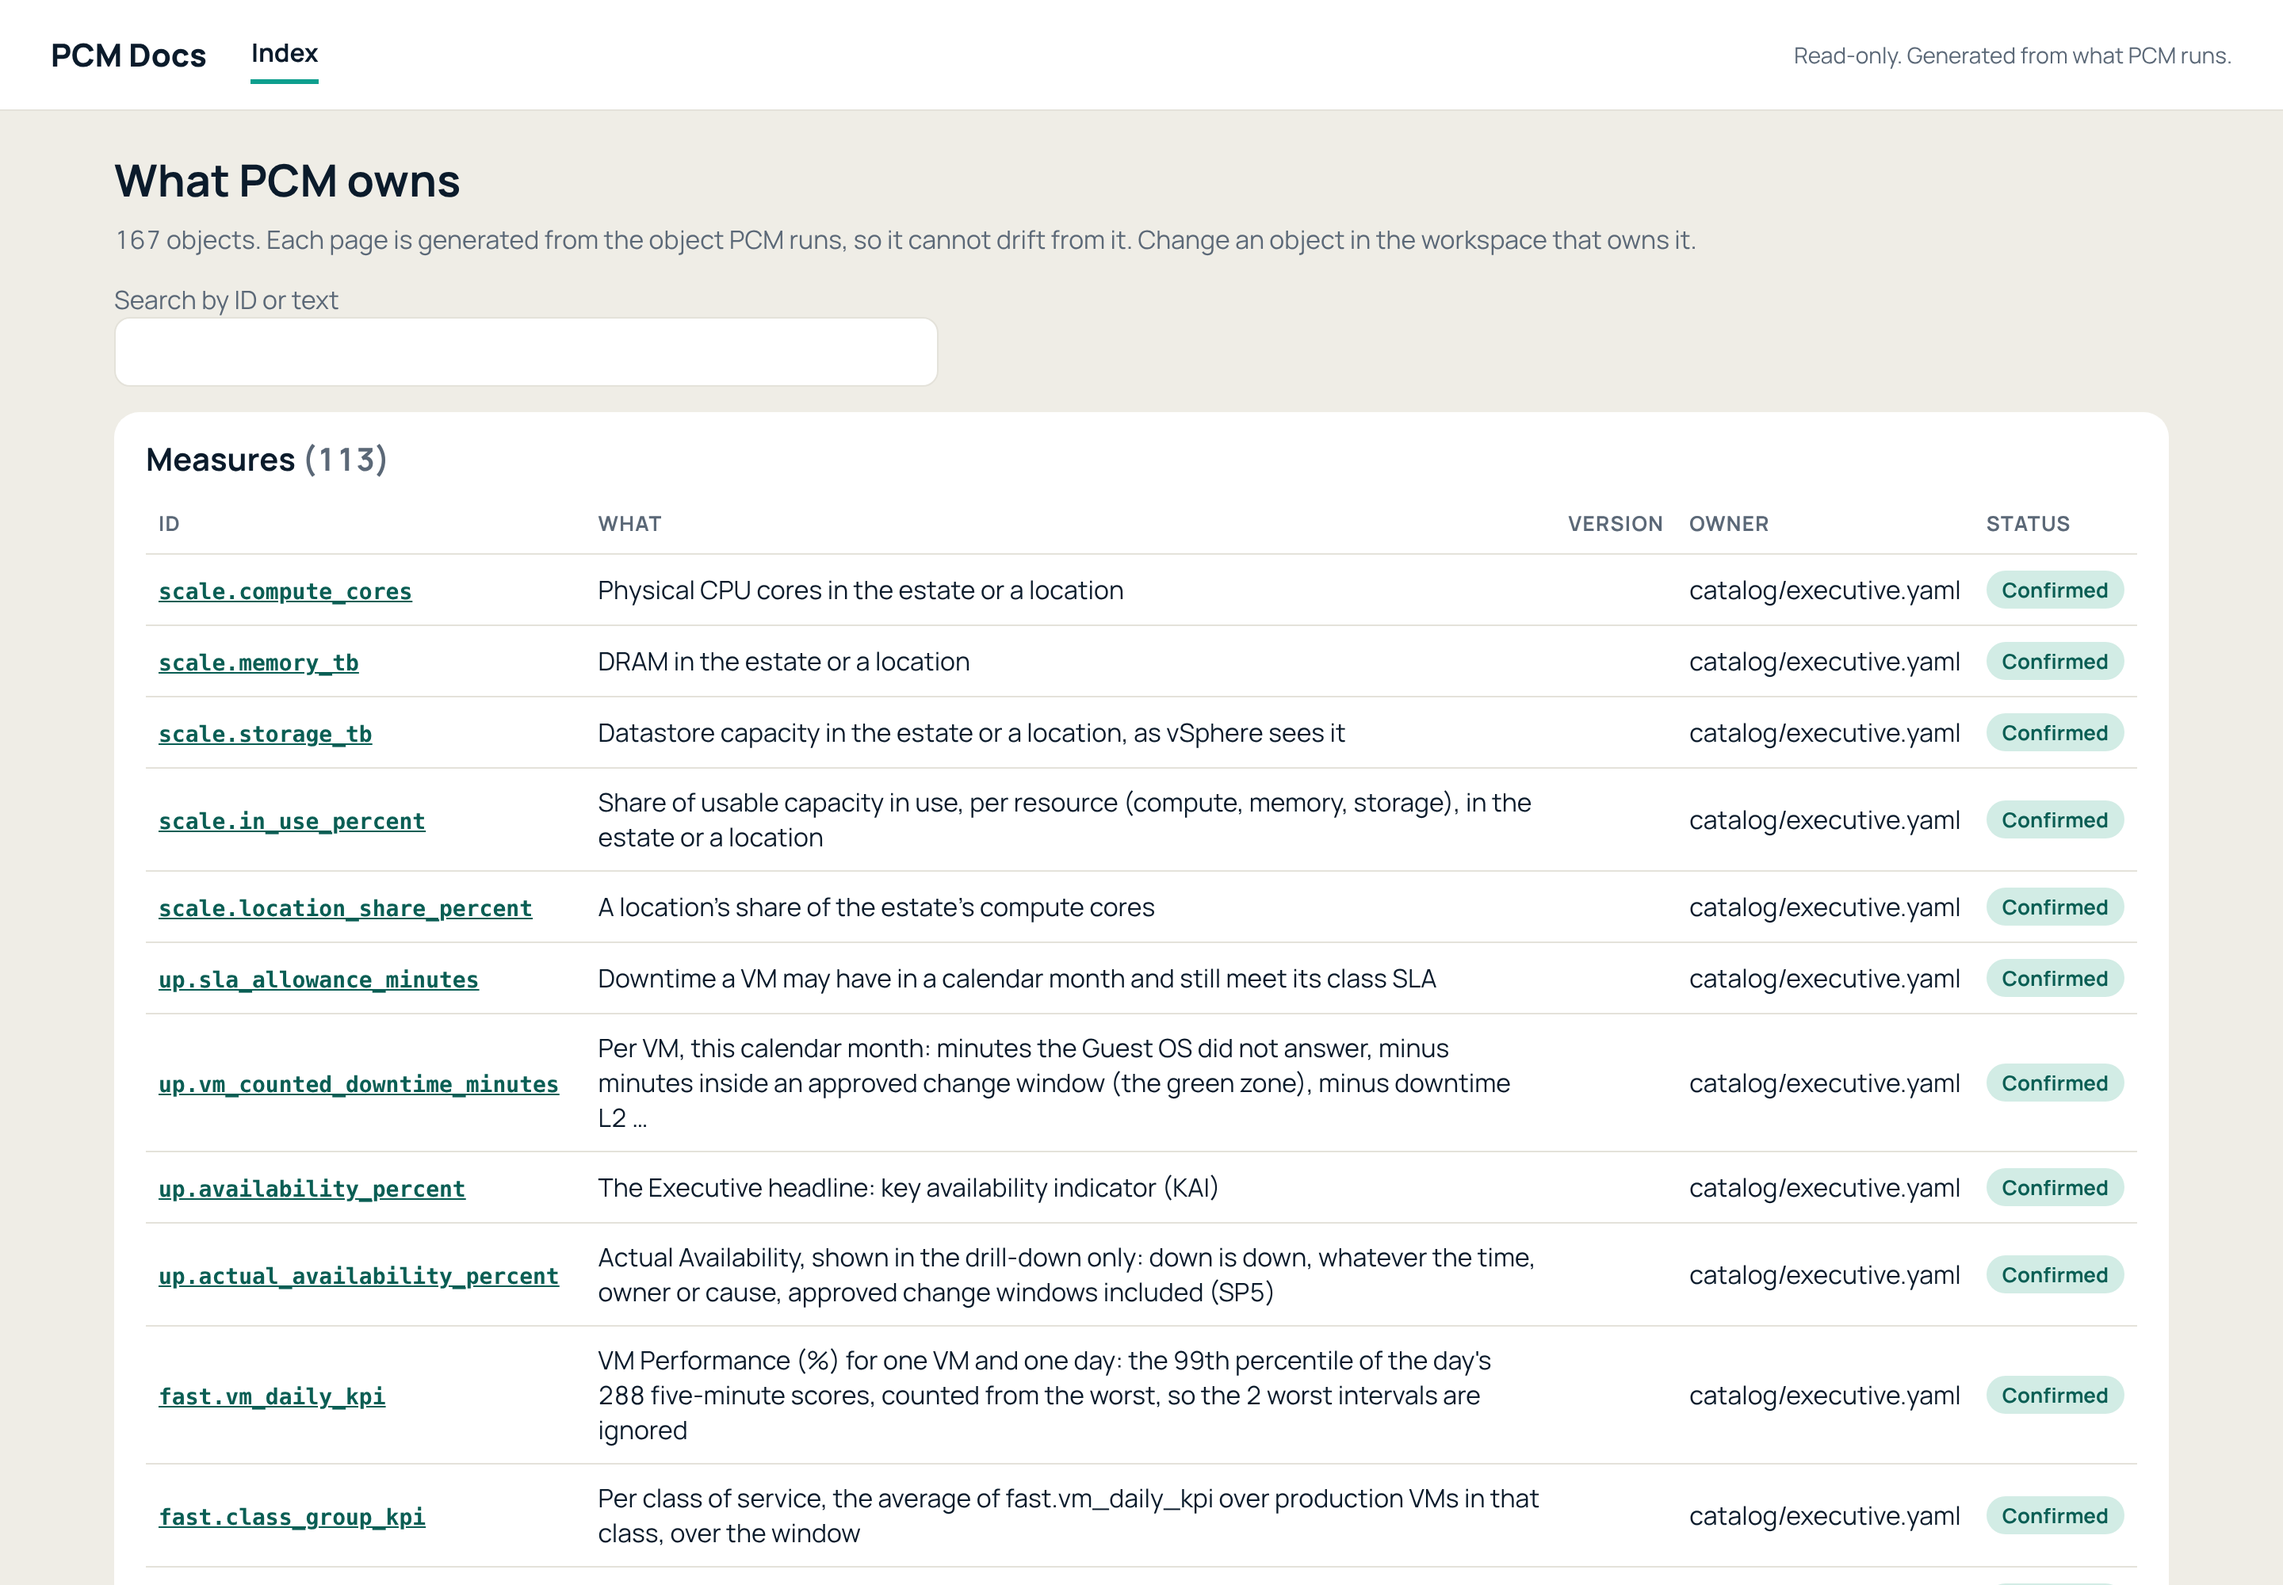
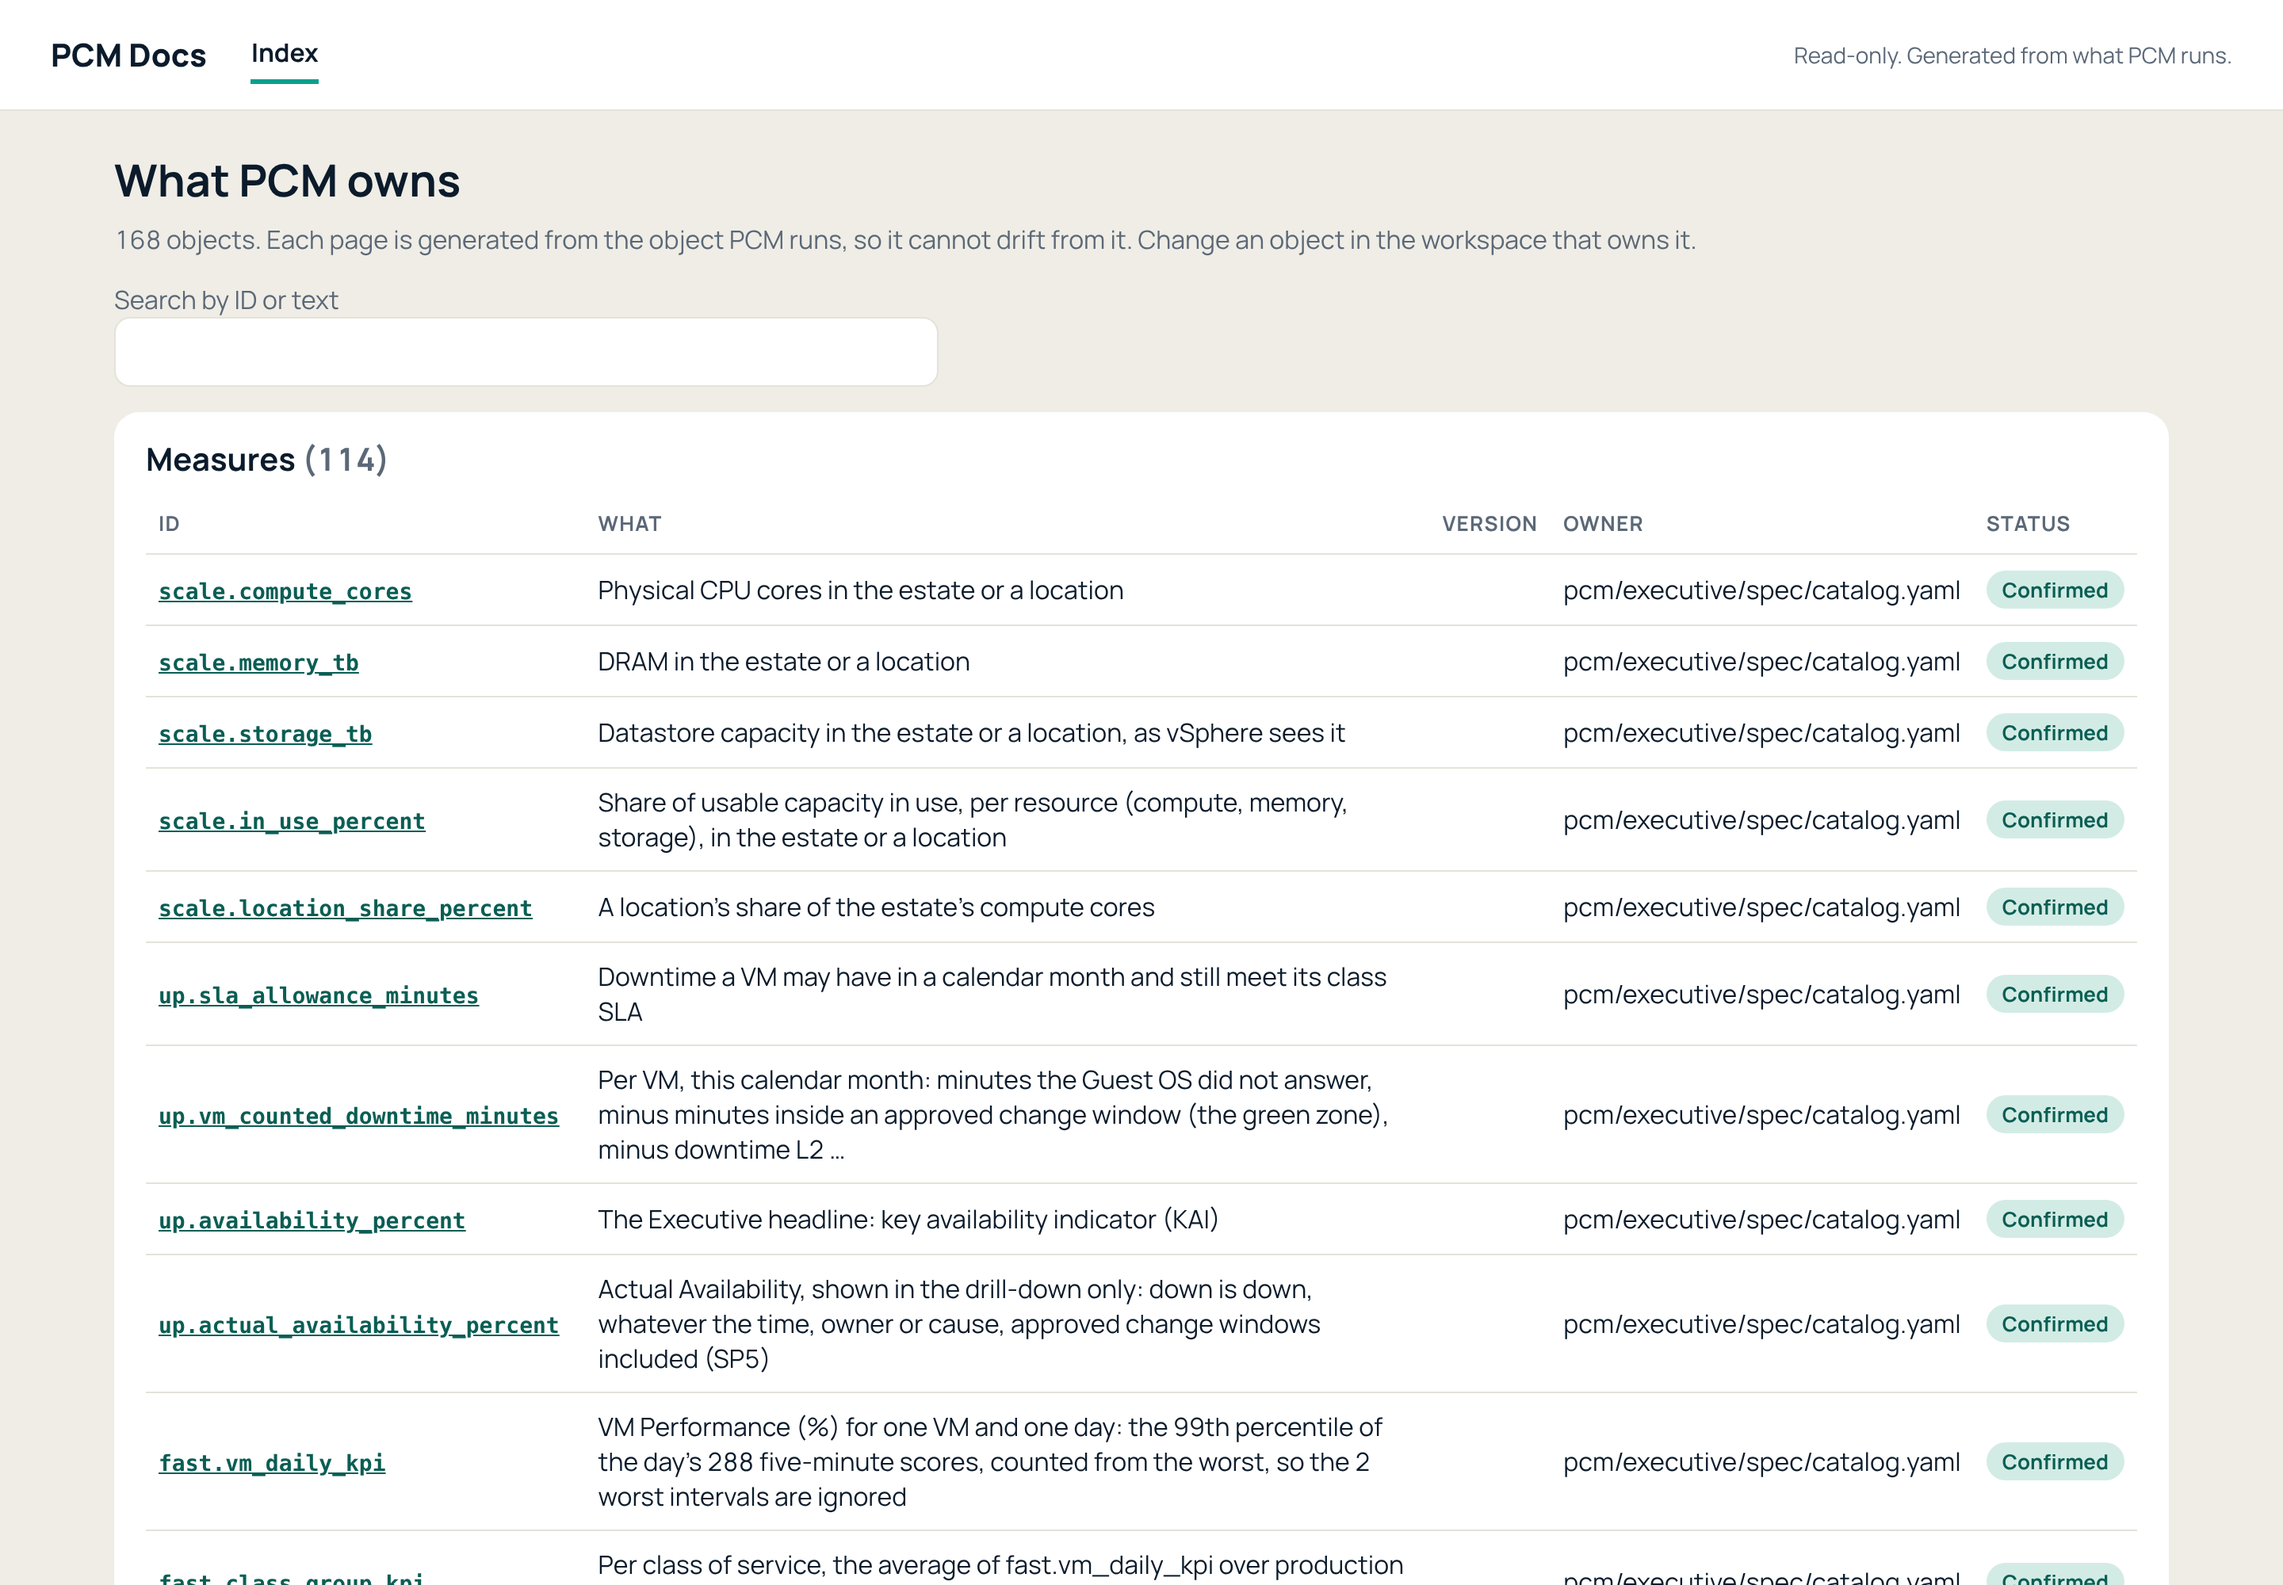
Documents agree with the spec: PCM's two demos, one broken link
The README said PCM reads VCF Operations; today it shows the synthetic
ACME estate, and the live demo that reads the lab is built in M8
(SCOPE-4, SCOPE-5). It now also links the test plan. decisions.md linked
the workspace's retired DECISIONS.md. CLAUDE-PROJECT.md cited DESIGN-23
twice. The test plan's tables are shorter.

Claude-Session: https://claude.ai/code/session_01JZFwAnhTPfYu2xFTHiaHFb

diff --git a/spec/test-plan.md b/spec/test-plan.md
@@ -11,7 +11,7 @@ The model is the VCF vCommunity Adapter's [Live Validation Test Plan](https://gi
 | Unit tests | `python3 -m unittest pcm.<workspace>.tests.test_<name> -v`, from the repository root ([pcm/README.md](../pcm/README.md), section Test) | Each workspace's code, the live reader and its figures, with the fake Suite API | Anywhere, before each commit |
 | Page tests | `node pcm/<workspace>/tests/<workspace>.page.test.mjs` | Each page's parts, states and links, in Chromium | Anywhere, before each commit |
 | Synthetic rehearsal | `node demo/rehearse.mjs` ([demo/README.md](../demo/README.md)) | The synthetic demo script, step by step, with a screenshot per step | Anywhere, before every demo |
-| Lab tests | `pwsh tools/lab/Test-Live.ps1` (R-LIVE-031, to write) | The live demo on the lab VM against the lab VCF Operations: every lab scenario of [live-demo.md](requirements/live-demo.md), then the live demo script end to end (R-LIVE-036) | The author's laptop on the VPN, from M8 |
+| Lab tests | `pwsh tools/lab/Test-Live.ps1` (R-LIVE-031, to write) | Every lab scenario of [live-demo.md](requirements/live-demo.md), then the live demo end to end | The author's laptop on the VPN, from M8 |
 
 A lab test is written only for what a fake cannot prove: the real Suite API, the real adapter's keys, the lab's certificate and account rights, and the time a page takes. Everything else is tested with the fake Suite API (`pcm/l2/tests/fake_suite_api.py`, to write).
 
@@ -44,12 +44,12 @@ Design choices:
 
 | Step | What it checks | Scenarios | On failure |
 | :--- | :--- | :--- | :--- |
-| 1. Access | The VPN, VCF Operations sign-in, vCenter sign-in and the PCM pages on the lab VM answer ([Test-Lab.ps1](../tools/lab/Test-Lab.ps1)) | none of its own | Stop |
+| 1. Access | VPN, sign-ins and the lab VM's pages answer ([Test-Lab.ps1](../tools/lab/Test-Lab.ps1)) | none of its own | Stop |
 | 2. The adapter collects | The VCF vCommunity Adapter's [validate.ps1](https://github.com/e1-rahabok/PCM-Adapter/blob/main/tools/validate/validate.ps1) exits 0 | none of its own | Stop: the pack is not collecting, which is the adapter's fault |
 | 3. Sign-in and rights | The read-only account, the lab certificate, no refused call; the lab's VCF Operations version is printed | T-LIVE-007c, T-LIVE-008b, T-LIVE-009b, T-LIVE-031a | Stop |
 | 4. The key list | Every key PCM reads exists on the lab and is fresh | T-LIVE-023a, T-LIVE-023c | Stop: a missing key fails every figure after it |
 | 5. The live entry and the tree | `/live/l2` opens; the tree is VCF Operations' inventory | T-LIVE-001b, T-LIVE-012b | Go on |
-| 6. Figures against the oracle | Cluster Performance; every other KPI and part on a cluster, a host and a VM; the lines across clusters; the 7-day window; Capacity Remaining, Time Remaining and VM Remaining; the Periodic Cluster Check and its labels; the part names | T-LIVE-024a, T-LIVE-025a, T-LIVE-026a, T-LIVE-017b, T-LIVE-027b, T-LIVE-021b, T-LIVE-022b, T-LIVE-018b | Go on |
+| 6. Figures against the oracle | Every KPI, part, line, remaining value and check equals the oracle | T-LIVE-024a, T-LIVE-025a, T-LIVE-026a, T-LIVE-017b, T-LIVE-027b, T-LIVE-021b, T-LIVE-022b, T-LIVE-018b | Go on |
 | 7. Absent data | A powered-off VM shows "No data" | T-LIVE-015b | Go on |
 | 8. Page time | A cluster's Performance and Capacity tabs show within 5 seconds with an empty cache | T-LIVE-033b | Go on |
 | 9. Agent E2 | "Why the worst?" names the oracle's part | T-LIVE-030a | Go on |

diff --git a/README.md b/README.md
@@ -1,11 +1,11 @@
 # PCM, Private Cloud Manager
 
-A web application for the operations roles of a private cloud on VMware Cloud Foundation: CIO, NOC, L2 platform engineer, capacity planner and auditor. Each role has its own workspace with its own URL (D-011, D-012). PCM reads VCF Operations and asks [Agent E2](https://github.com/e1-rahabok/agent-e2) to explain what it shows.
+A web application for the operations roles of a private cloud on VMware Cloud Foundation: CIO, NOC, L2 platform engineer, capacity planner and auditor. Each role has its own workspace with its own URL (D-011, D-012). PCM shows a synthetic estate, ACME, and asks [Agent E2](https://github.com/e1-rahabok/agent-e2) to explain what it shows. A second demo, the live L2 workspace, reads the lab's VCF Operations; it is built in the workspace's milestone M8 (SCOPE-4 and SCOPE-5 in the workspace's [brief](https://github.com/e1-rahabok/private-cloud-workspace/blob/main/spec/brief.md)).
 
 ## Files
 
 - [`pcm/`](pcm): the application, one folder per workspace ([`executive/`](pcm/executive), [`noc/`](pcm/noc), [`l2/`](pcm/l2), [`capacity/`](pcm/capacity), [`definitions/`](pcm/definitions) for the Docs workspace) and [`core/`](pcm/core) for the parts every workspace uses (D-133). Each folder holds a design note, the specification in `spec/`, and the code, pages and tests generated from them. AI generates all code from the specification (D-010); do not edit generated code by hand (D-070). How to run and test it: [pcm/README.md](pcm/README.md).
-- [`spec/`](spec): the specification's front page ([spec/README.md](spec/README.md)) and the requirements of PCM's work ([spec/requirements/](spec/requirements)).
+- [`spec/`](spec): the specification's front page ([spec/README.md](spec/README.md)), the requirements of PCM's work ([spec/requirements/](spec/requirements)) and the [test plan](spec/test-plan.md).
 - [decisions.md](decisions.md): the reasons behind the specification, with the design notes. Decision IDs are D-nnn.
 - [`author-papers/`](author-papers): the author's papers that PCM is designed from ([author-papers/README.md](author-papers/README.md)).
 - [`deploy/`](deploy): installing PCM and Agent E2 on a lab VM ([deploy/README.md](deploy/README.md)).

diff --git a/decisions.md b/decisions.md
@@ -952,7 +952,7 @@ Every decision, with a link to its block. The workspace's [tools/spec_check.py](
 ## D-134 Decision blocks and the style baseline
 
 - **Date:** 2026-11-28
-- **Decision:** This file holds one block per decision: a heading with the ID and a title, then the date, the decision and the reason, as the workspace's [DECISIONS.md](https://github.com/e1-rahabok/private-cloud-workspace/blob/main/DECISIONS.md) does. The index at the top lists every decision with a link to its block; the workspace's [tools/spec_check.py](https://github.com/e1-rahabok/private-cloud-workspace/blob/main/tools/spec_check.py) reads the decision IDs from its rows. The other files in [style-baseline.yaml](style-baseline.yaml), most of them design notes, keep their counts and are fixed when next edited.
+- **Decision:** This file holds one block per decision: a heading with the ID and a title, then the date, the decision and the reason. The index at the top lists every decision with a link to its block; the workspace's [tools/spec_check.py](https://github.com/e1-rahabok/private-cloud-workspace/blob/main/tools/spec_check.py) reads the decision IDs from its rows. The other files in [style-baseline.yaml](style-baseline.yaml), most of them design notes, keep their counts and are fixed when next edited.
 - **Reason:** The author's answer to Q-PCM-1, the style baseline of 249 problems (2026-11-28, "Agree"): option (b) for this file, whose table was read most and whose cells ran to over 100 words, and option (a) for the design notes, which change with each workspace.
 
 ## D-135 The folder name of the Docs workspace

diff --git a/CLAUDE-PROJECT.md b/CLAUDE-PROJECT.md
@@ -9,7 +9,7 @@ Rules, tools and paths of private-cloud-manager, the repository of PCM (Private 
 - Requirements of this repository: [`spec/requirements/`](spec/requirements) (DESIGN-4). Each requirement belongs to the workspace milestone that ROADMAP.md names.
 - Test plan of this repository: [spec/test-plan.md](spec/test-plan.md): test levels, the lab run order of `tools/lab/Test-Live.ps1`, and the reference script `tools/lab/live_reference.py`.
 - Decisions inside this repository: [decisions.md](decisions.md), IDs D-nnn. Add no new block to it: put a new outcome in a requirement or a design note, with its reason.
-- Questions inside this repository: [OPEN-QUESTIONS.md](OPEN-QUESTIONS.md), IDs Q-PCM-n (DESIGN-23, DESIGN-23).
+- Questions inside this repository: [OPEN-QUESTIONS.md](OPEN-QUESTIONS.md), IDs Q-PCM-n (DESIGN-23).
 - Specification: one folder per workspace under [pcm/](pcm), each with its `spec/` folder; front page [spec/README.md](spec/README.md) (D-133). Reasons behind it: each workspace's `design-note.md`, the notes in [pcm/core/design-notes/](pcm/core/design-notes), and [decisions.md](decisions.md).
 
 ## Code
